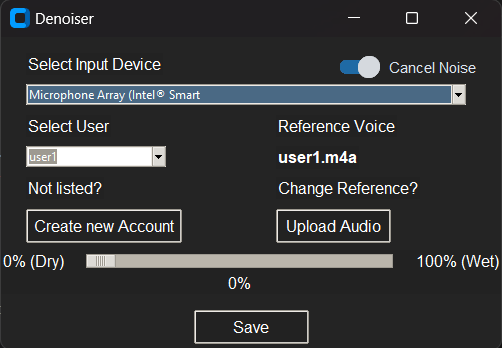
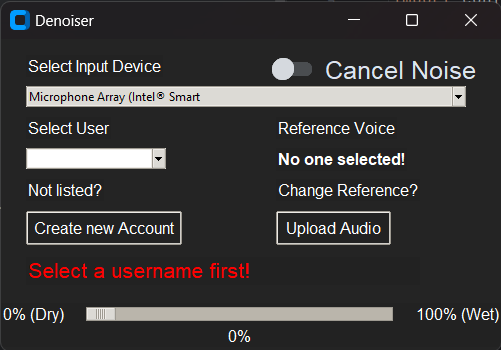
updated application after removing 'save' button

diff --git a/document/chapters/application/features.tex b/document/chapters/application/features.tex
@@ -24,13 +24,13 @@ The app is designed to enhance speech using the user's reference audio. Upon fir
 
 Afterward, the client needs to select the input device for real-time voice enhancement.
 
-Users can activate or deactivate the 'Cancel Noise' switch to start or stop noise cancellation. Additionally, they can adjust the percentage of noise to be removed using the dry/wet slider.
+Additionally, the client can adjust the percentage of noise to be removed using the dry/wet slider.
 
 Our app supports multiple users, each mapped to one reference audio. If a user needs to replace their reference audio, they can upload a new audio file, which will replace the old one.
 
-Once these settings have been configured, the user needs to click 'Save' to start noise cancellation. Clicking 'Save' toggles its text to 'Edit' and disables other components, as the user is not allowed to modify their values while the app is running, except for the 'Cancel Noise' switch button, which remains enabled.
+Once these settings have been configured, the user will be able to activate the 'Cancel Noise' switch to start noise cancellation. Switching on disables other components, as the user is not allowed to modify their values while the app is running.
 
-If the user clicks 'Edit', the components are enabled again, the text toggles back to 'Save', and noise cancellation is halted until the user edits their necessary data and clicks 'Save' again to resume.
+If the user deactivate the 'Cancel Noise' switch, the components are enabled again and noise cancellation is halted until the user edits their necessary data and clicks activate the switch again to resume.
 
 Finally, the app is available in both light and dark modes to suit user preferences.
 
@@ -53,11 +53,10 @@ Finally, the app is available in both light and dark modes to suit user preferen
 Here is a recap of the features or components provided by our GUI:
 \begin{itemize}
 	\item \textbf{Select Input Device}: Dropdown menu that displays current audio inputs from the device.
-	\item \textbf{Cancel Noise}: Switch button that can be toggled on and off.
 	\item \textbf{Select User}: A dropdown menu that displays current saved usernames on the device. Once a user is selected, their reference voice's name appears next to the menu in bold.
 	\item \textbf{Reference Voice}: Label that displays the user's reference audio once a user is chosen from the 'Select User' dropdown.
 	\item \textbf{Create New Account}: Button that leads to another window, allowing the user to provide their name and upload their reference audio for the first time. Once this data is submitted, the user's name and reference audio remain saved in the app.
 	\item \textbf{Upload Audio}: Button that enables a user to change their stored reference audio by uploading a new one.
 	\item \textbf{Dry/Wet Slider}: Controls the amount of noise to keep or remove from the provided audio.
-	\item \textbf{Save}: Button to save the given values and pass them to the model to start working.
+	\item \textbf{Cancel Noise}: Switch button that can be toggled on and off, initial state is 'off' while turning it on passes the given values to the model to start working.
 \end{itemize}
